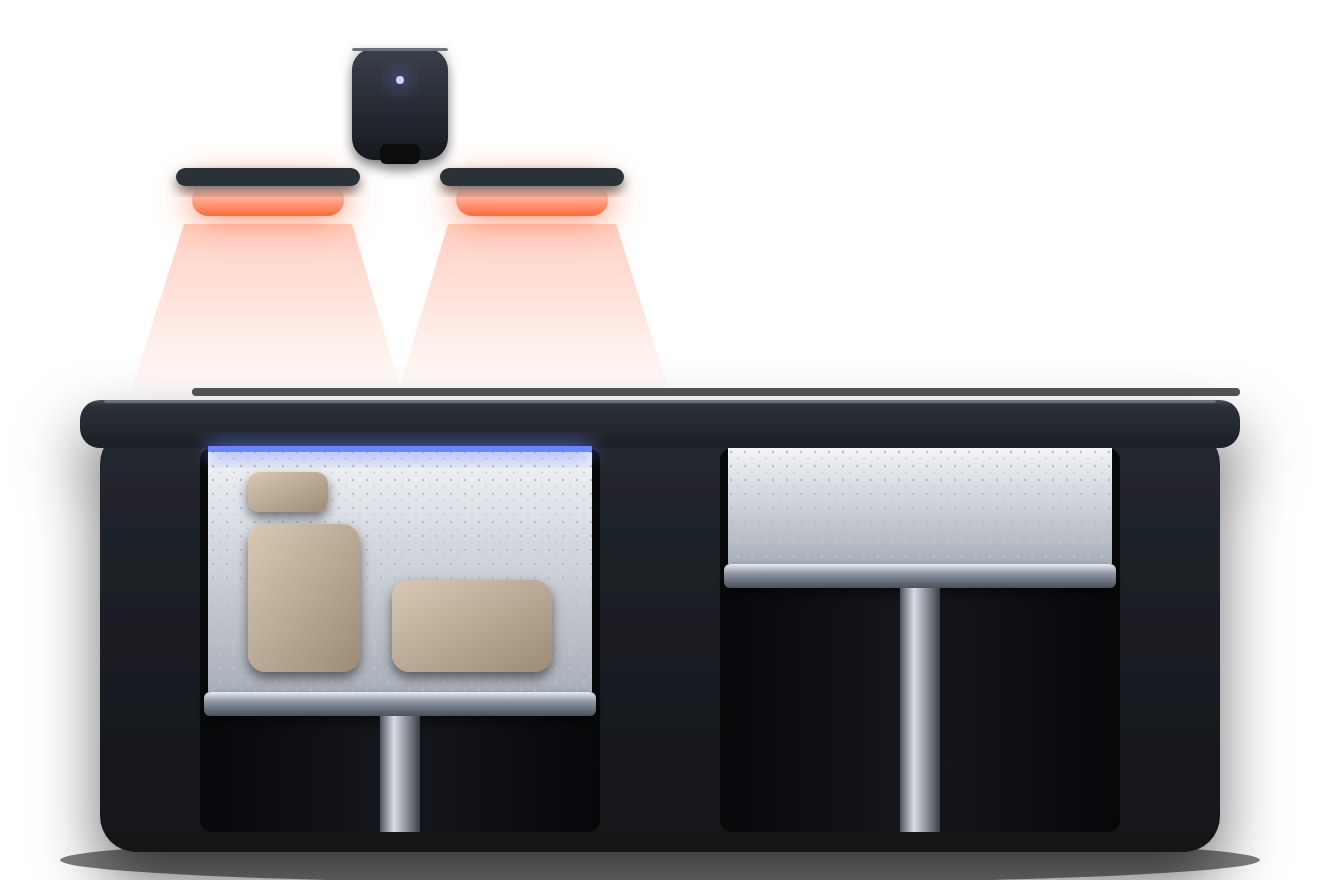
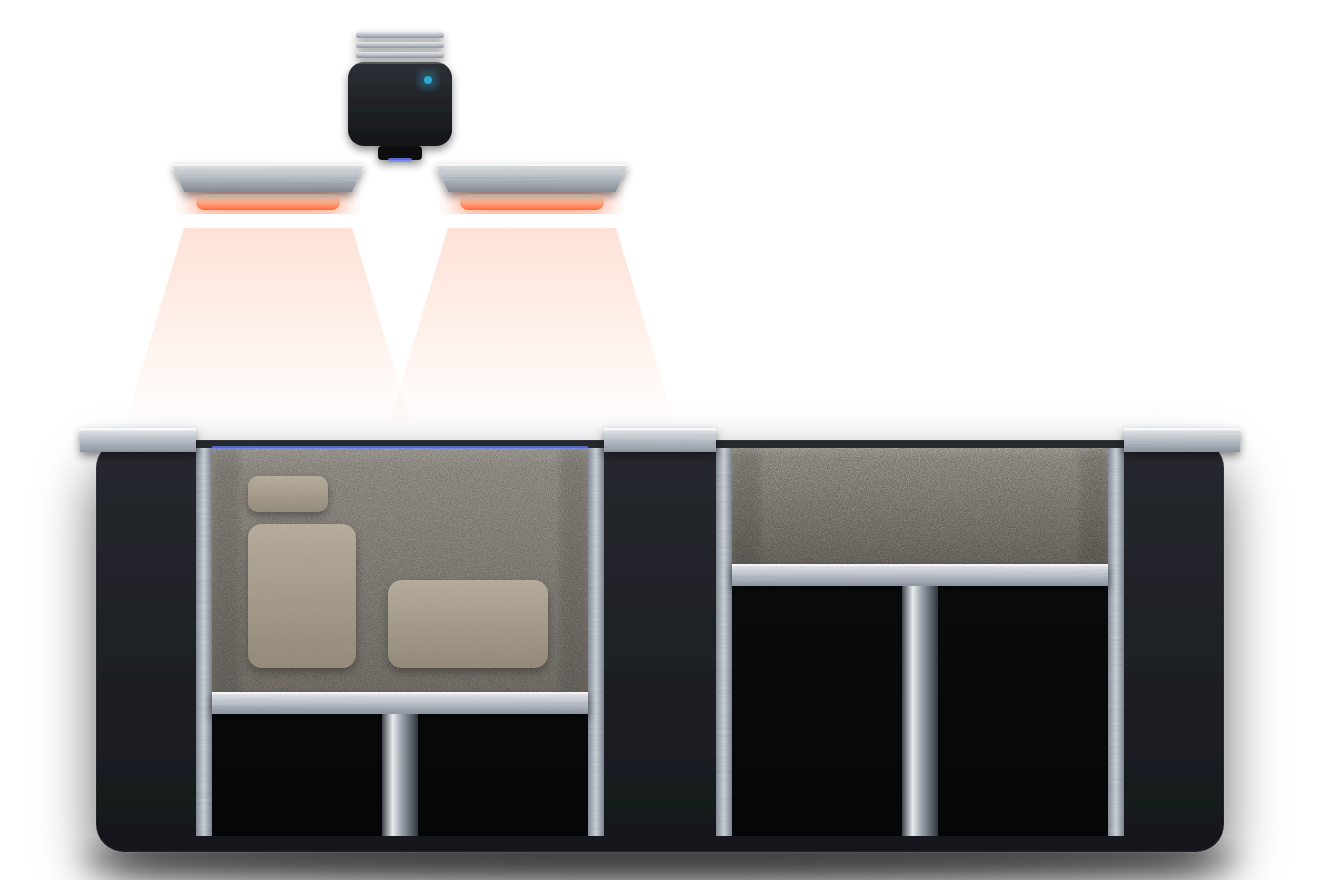
Bauraum neu gezeichnet: gebürstetes Alu, graues Pulver mit Korn, flaches Deck
Claude-Session: https://claude.ai/code/session_01WkSzCPkPaADoReGQ18Kj4m

diff --git a/design/chamber.svg.html b/design/chamber.svg.html
@@ -1,0 +1,161 @@
+<html><body style="margin:0;background:transparent"><svg viewBox="0 0 660 440" width="1320" height="880" xmlns="http://www.w3.org/2000/svg">
+<defs>
+  <!-- gebürstetes Aluminium: Grundverlauf + feine horizontale Riefen -->
+  <filter id="brush" x="0" y="0" width="100%" height="100%">
+    <feTurbulence type="fractalNoise" baseFrequency="0.004 0.9" numOctaves="2" seed="3" result="n"/>
+    <feColorMatrix in="n" type="matrix" values="0 0 0 0 1  0 0 0 0 1  0 0 0 0 1  0 0 0 0.22 0" result="s"/>
+    <feComposite in="s" in2="SourceGraphic" operator="in" result="s2"/>
+    <feBlend in="s2" in2="SourceGraphic" mode="overlay"/>
+  </filter>
+  <!-- Pulverkorn -->
+  <filter id="grain" x="0" y="0" width="100%" height="100%">
+    <feTurbulence type="fractalNoise" baseFrequency="1.6" numOctaves="2" seed="8" result="n"/>
+    <feColorMatrix in="n" type="matrix" values="0 0 0 0 0.5  0 0 0 0 0.5  0 0 0 0 0.5  0 0 0 0.9 -0.35" result="g"/>
+    <feComposite in="g" in2="SourceGraphic" operator="in" result="g2"/>
+    <feBlend in="g2" in2="SourceGraphic" mode="soft-light"/>
+  </filter>
+  <filter id="noise" x="0" y="0" width="100%" height="100%">
+    <feTurbulence type="fractalNoise" baseFrequency="2.2" numOctaves="1" seed="5"/>
+    <feColorMatrix type="matrix" values="0 0 0 0 0  0 0 0 0 0  0 0 0 0 0  -1.6 0 0 0 1.05"/>
+  </filter>
+  <filter id="noiseW" x="0" y="0" width="100%" height="100%">
+    <feTurbulence type="fractalNoise" baseFrequency="2.2" numOctaves="1" seed="11"/>
+    <feColorMatrix type="matrix" values="0 0 0 0 1  0 0 0 0 1  0 0 0 0 1  1.8 0 0 0 -1.05"/>
+  </filter>
+  <filter id="soft" x="-30%" y="-30%" width="160%" height="190%"><feDropShadow dx="0" dy="2" stdDeviation="2.2" flood-color="#000" flood-opacity="0.45"/></filter>
+  <filter id="big" x="-10%" y="-10%" width="120%" height="140%"><feDropShadow dx="0" dy="14" stdDeviation="14" flood-color="#000" flood-opacity="0.6"/></filter>
+  <filter id="blur6"><feGaussianBlur stdDeviation="6"/></filter>
+  <filter id="blur2"><feGaussianBlur stdDeviation="2"/></filter>
+  <filter id="inset" x="0" y="0" width="100%" height="100%">
+    <feFlood flood-color="#000" flood-opacity="0.55"/><feComposite in2="SourceAlpha" operator="out"/>
+    <feGaussianBlur stdDeviation="5"/><feOffset dy="3"/><feComposite in2="SourceAlpha" operator="in" result="sh"/>
+    <feMerge><feMergeNode in="SourceGraphic"/><feMergeNode in="sh"/></feMerge>
+  </filter>
+
+  <linearGradient id="alu" x1="0" y1="0" x2="0" y2="1">
+    <stop offset="0" stop-color="#e3e6ea"/><stop offset="0.45" stop-color="#b4bac2"/><stop offset="1" stop-color="#868d97"/></linearGradient>
+  <linearGradient id="aluSide" x1="0" y1="0" x2="1" y2="0">
+    <stop offset="0" stop-color="#7c838d"/><stop offset="0.5" stop-color="#bfc5cc"/><stop offset="1" stop-color="#737a84"/></linearGradient>
+  <linearGradient id="aluWall" x1="0" y1="0" x2="0" y2="1">
+    <stop offset="0" stop-color="#a9afb7"/><stop offset="1" stop-color="#5d636c"/></linearGradient>
+  <linearGradient id="rod" x1="0" y1="0" x2="1" y2="0">
+    <stop offset="0" stop-color="#3d424a"/><stop offset="0.3" stop-color="#e9ecef"/><stop offset="0.55" stop-color="#9aa1aa"/><stop offset="1" stop-color="#30353c"/></linearGradient>
+  <linearGradient id="body" x1="0" y1="0" x2="0" y2="1">
+    <stop offset="0" stop-color="#26292f"/><stop offset="1" stop-color="#16181c"/></linearGradient>
+  <linearGradient id="cav" x1="0" y1="0" x2="0" y2="1">
+    <stop offset="0" stop-color="#0d0e11"/><stop offset="1" stop-color="#050607"/></linearGradient>
+  <linearGradient id="powder" x1="0" y1="0" x2="0" y2="1">
+    <stop offset="0" stop-color="#a7a39a"/><stop offset="0.08" stop-color="#97938a"/><stop offset="1" stop-color="#6f6b64"/></linearGradient>
+  <linearGradient id="part" x1="0" y1="0" x2="0" y2="1">
+    <stop offset="0" stop-color="#c3b8a4"/><stop offset="1" stop-color="#998e7b"/></linearGradient>
+  <linearGradient id="refl" x1="0" y1="0" x2="0" y2="1">
+    <stop offset="0" stop-color="#d7dce1"/><stop offset="1" stop-color="#7d848d"/></linearGradient>
+  <linearGradient id="tube" x1="0" y1="0" x2="0" y2="1">
+    <stop offset="0" stop-color="#fff1e6"/><stop offset="0.5" stop-color="#ffb08a"/><stop offset="1" stop-color="#ff6a3d"/></linearGradient>
+  <linearGradient id="heat" x1="0" y1="0" x2="0" y2="1">
+    <stop offset="0" stop-color="#ff7a45" stop-opacity="0.22"/><stop offset="1" stop-color="#ff7a45" stop-opacity="0"/></linearGradient>
+  <linearGradient id="headG" x1="0" y1="0" x2="0" y2="1">
+    <stop offset="0" stop-color="#2d3036"/><stop offset="1" stop-color="#141518"/></linearGradient>
+  <clipPath id="cBuild"><rect x="106" y="224" width="188" height="200"/></clipPath>
+  <clipPath id="cRes"><rect x="366" y="224" width="188" height="200"/></clipPath>
+</defs>
+
+<!-- Schatten am Boden -->
+<ellipse cx="330" cy="430" rx="290" ry="9" fill="#000" opacity="0.55" filter="url(#blur6)"/>
+
+<!-- Gehäuse (Schnitt) -->
+<g filter="url(#big)">
+  <rect x="48" y="220" width="564" height="206" rx="14" fill="url(#body)"/>
+</g>
+<rect x="48" y="220" width="564" height="206" rx="14" fill="none" stroke="#ffffff" stroke-opacity="0.05"/>
+
+<!-- Schächte: dunkler Hohlraum -->
+<rect x="98" y="224" width="204" height="194" rx="4" fill="url(#cav)"/>
+<rect x="358" y="224" width="204" height="194" rx="4" fill="url(#cav)"/>
+
+<!-- Schachtwände aus Alu -->
+<g filter="url(#brush)">
+  <rect x="98" y="224" width="8" height="194" fill="url(#aluSide)"/>
+  <rect x="294" y="224" width="8" height="194" fill="url(#aluSide)"/>
+  <rect x="358" y="224" width="8" height="194" fill="url(#aluSide)"/>
+  <rect x="554" y="224" width="8" height="194" fill="url(#aluSide)"/>
+</g>
+
+<!-- Bauraum: Pulverkuchen mit Bauteilen -->
+<g clip-path="url(#cBuild)">
+  <rect x="106" y="224" width="188" height="122" fill="url(#powder)"/>
+  <rect x="106" y="224" width="188" height="122" fill="#000" filter="url(#noise)" opacity="0.35"/>
+  <rect x="106" y="224" width="188" height="122" fill="#000" filter="url(#noiseW)" opacity="0.25"/>
+  <g filter="url(#soft)" opacity="0.92">
+    <rect x="124" y="262" width="54" height="72" rx="7" fill="url(#part)"/>
+    <rect x="194" y="290" width="80" height="44" rx="7" fill="url(#part)"/>
+    <rect x="124" y="238" width="40" height="18" rx="5" fill="url(#part)"/>
+  </g>
+  <!-- Pulver liegt leicht über den Teilen: Schleier -->
+  <rect x="106" y="224" width="188" height="122" fill="#8f8b83" opacity="0.18"/>
+  <!-- Wandschatten -->
+  <rect x="106" y="224" width="14" height="122" fill="#000" opacity="0.1" filter="url(#blur2)"/>
+  <rect x="280" y="224" width="14" height="122" fill="#000" opacity="0.1" filter="url(#blur2)"/>
+</g>
+<!-- Bauplattform -->
+<g filter="url(#soft)"><rect x="106" y="346" width="188" height="11" fill="url(#alu)" filter="url(#brush)"/></g>
+<rect x="106" y="346" width="188" height="1" fill="#ffffff" opacity="0.6"/>
+<rect x="191" y="357" width="18" height="61" fill="url(#rod)"/>
+
+<!-- Vorrat -->
+<g clip-path="url(#cRes)">
+  <rect x="366" y="224" width="188" height="58" fill="url(#powder)"/>
+  <rect x="366" y="224" width="188" height="58" fill="#000" filter="url(#noise)" opacity="0.35"/>
+  <rect x="366" y="224" width="188" height="58" fill="#000" filter="url(#noiseW)" opacity="0.25"/>
+  <rect x="366" y="224" width="14" height="58" fill="#000" opacity="0.1" filter="url(#blur2)"/>
+  <rect x="540" y="224" width="14" height="58" fill="#000" opacity="0.1" filter="url(#blur2)"/>
+</g>
+<g filter="url(#soft)"><rect x="366" y="282" width="188" height="11" fill="url(#alu)" filter="url(#brush)"/></g>
+<rect x="366" y="282" width="188" height="1" fill="#ffffff" opacity="0.6"/>
+<rect x="451" y="293" width="18" height="125" fill="url(#rod)"/>
+
+<!-- Deckplatte aus Alu mit Öffnungen -->
+<g filter="url(#soft)">
+  <g filter="url(#brush)">
+    <path d="M40 214 h58 v12 h-58 z" fill="url(#alu)"/>
+    <path d="M302 214 h56 v12 h-56 z" fill="url(#alu)"/>
+    <path d="M562 214 h58 v12 h-58 z" fill="url(#alu)"/>
+  </g>
+</g>
+<rect x="40" y="214" width="58" height="1.2" fill="#fff" opacity="0.75"/>
+<rect x="302" y="214" width="56" height="1.2" fill="#fff" opacity="0.75"/>
+<rect x="562" y="214" width="58" height="1.2" fill="#fff" opacity="0.75"/>
+<!-- frische Schicht: dünne Kante -->
+<rect x="106" y="223" width="188" height="1.5" fill="#6b86ff" opacity="0.7"/>
+
+<!-- Heizstrahler: Reflektor + Quarzrohr -->
+<path d="M92 114 h84 l30 100 h-144 z" fill="url(#heat)"/>
+<path d="M224 114 h84 l30 100 h-144 z" fill="url(#heat)"/>
+<g>
+  <rect x="96" y="96" width="76" height="10" rx="5" fill="#ff6a3d" filter="url(#blur6)" opacity="0.9"/>
+  <rect x="228" y="96" width="76" height="10" rx="5" fill="#ff6a3d" filter="url(#blur6)" opacity="0.9"/>
+  <rect x="98" y="97" width="72" height="8" rx="4" fill="url(#tube)"/>
+  <rect x="230" y="97" width="72" height="8" rx="4" fill="url(#tube)"/>
+</g>
+<g filter="url(#soft)">
+  <path d="M86 82 h96 l-6 14 h-84 z" fill="url(#refl)" filter="url(#brush)"/>
+  <path d="M218 82 h96 l-6 14 h-84 z" fill="url(#refl)" filter="url(#brush)"/>
+</g>
+<rect x="86" y="82" width="96" height="1" fill="#fff" opacity="0.7"/>
+<rect x="218" y="82" width="96" height="1" fill="#fff" opacity="0.7"/>
+
+<!-- Laserkopf: schwarz eloxiert, Alu-Kühlrippen -->
+<g filter="url(#soft)">
+  <g filter="url(#brush)">
+    <rect x="178" y="16" width="44" height="3" rx="1" fill="url(#alu)"/>
+    <rect x="178" y="21" width="44" height="3" rx="1" fill="url(#alu)"/>
+    <rect x="178" y="26" width="44" height="3" rx="1" fill="url(#alu)"/>
+  </g>
+  <rect x="174" y="31" width="52" height="42" rx="8" fill="url(#headG)"/>
+  <rect x="189" y="73" width="22" height="7" rx="2" fill="#0a0b0d"/>
+</g>
+<rect x="174" y="31" width="52" height="1" fill="#fff" opacity="0.18"/>
+<circle cx="214" cy="40" r="2" fill="#2fa6cc"/>
+<circle cx="214" cy="40" r="5" fill="#2fa6cc" opacity="0.35" filter="url(#blur2)"/>
+<rect x="194" y="79" width="12" height="2" rx="1" fill="#6b86ff" opacity="0.8"/>
+</svg></body></html>

diff --git a/design/coater.svg.html b/design/coater.svg.html
@@ -1,0 +1,14 @@
+<html><body style="margin:0;background:transparent"><svg viewBox="0 0 60 40" width="120" height="80" xmlns="http://www.w3.org/2000/svg">
+<defs>
+ <linearGradient id="a" x1="0" y1="0" x2="0" y2="1"><stop offset="0" stop-color="#e6e9ec"/><stop offset="0.5" stop-color="#b2b8c0"/><stop offset="1" stop-color="#7d848e"/></linearGradient>
+ <linearGradient id="b" x1="0" y1="0" x2="0" y2="1"><stop offset="0" stop-color="#2b2e33"/><stop offset="1" stop-color="#121316"/></linearGradient>
+ <filter id="s" x="-20%" y="-20%" width="140%" height="160%"><feDropShadow dx="0" dy="1.5" stdDeviation="1.5" flood-color="#000" flood-opacity="0.5"/></filter>
+</defs>
+<g filter="url(#s)">
+ <rect x="4" y="8" width="52" height="20" rx="4" fill="url(#a)"/>
+ <rect x="4" y="8" width="52" height="0.8" fill="#fff" opacity="0.8"/>
+ <rect x="10" y="28" width="40" height="6" rx="1" fill="url(#b)"/>
+ <rect x="12" y="34" width="36" height="1.6" fill="#9aa1aa"/>
+</g>
+<circle cx="48" cy="14" r="1.6" fill="#2fa6cc"/>
+</svg></body></html>

diff --git a/app/Chamber.qml b/app/Chamber.qml
@@ -69,7 +69,7 @@ Item {
     // Beschichter: parkt rechts, fährt bei jeder neuen Schicht über beide Behälter
     Image {
         id: coater
-        source: "assets/coater.png"; x: 559; y: 168; width: 60; height: 40; smooth: true
+        source: "assets/coater.png"; x: 559; y: 176; width: 60; height: 40; smooth: true
         SequentialAnimation {
             id: sweepAnim
             NumberAnimation { target: coater; property: "x"; to: 89; duration: 1200; easing.type: Easing.InOutCubic }
